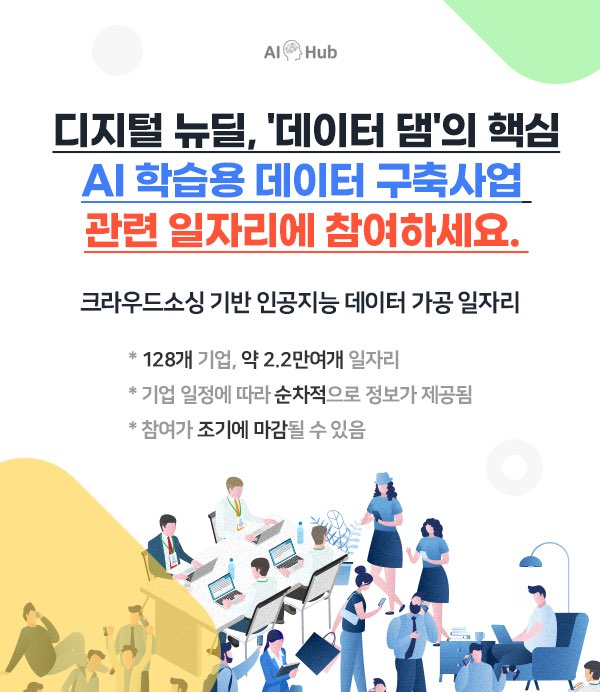
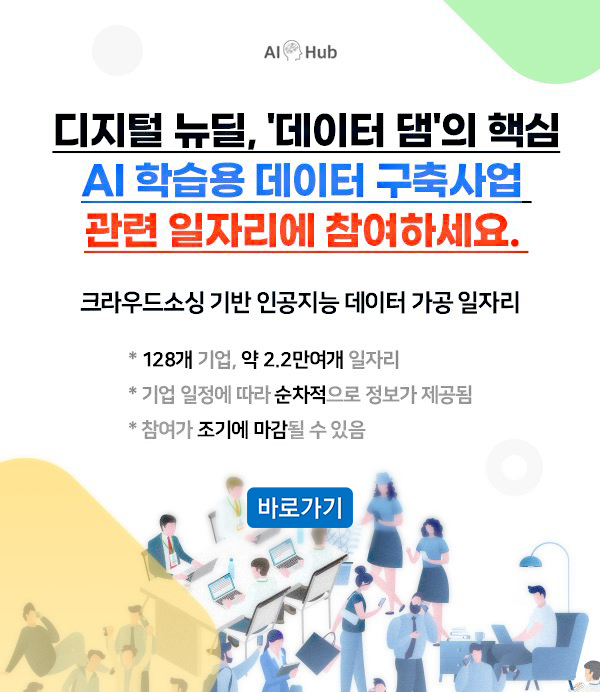
Complete : 파비콘(.ico) 추가, 메인 팝업 보완, 푸터 일부 링크 삭제

diff --git a/asset/css/style.css b/asset/css/style.css
@@ -63,7 +63,7 @@ a:hover {text-decoration: none; color:inherit}
 #content .tab li {float: left;height: 50px;width:50%;border-top: 1px solid #1a428a;border-right: 1px solid #dedede;border-bottom: 1px solid #b6b6b6;text-align: center;display: table;}
 #content .tab li a {display: table-cell;height: 50px;line-height: 1.1em;vertical-align: middle;word-break: keep-all;}
 #content .tab li a.active {background: #1a428a; color: #fff; font-weight: bold;}
-#content .area_tit {padding: 70px 0 50px; text-align: center;}
+/*#content .area_tit {padding: 70px 0 50px; text-align: center;}*/
 #content .area_tit .tit {
     font-size: 40px;
     font-weight: bold;
@@ -498,7 +498,7 @@ margin-top: 4px;
 
 /* 버튼 */
 [class*="btn_m"] {min-width: 120px;min-height: 40px;line-height:20px;display: inline-block;text-align: center;padding:10px 15px;}
-[class*="m_blue"] {background-color: #007dff;color:#fff;}
+[class*="m_blue"] {background-color: #007dff;color:#fff!important;}
 
 @media screen and (max-width: 1199px) {
     .area_thumbnail li {min-height: auto}
@@ -680,17 +680,70 @@ margin-top: 4px;
 /*}*/
 .modal .img_100 {width: 100%}
 
+
 .modal-body {padding: 0}
-.modal-content .btn_close {
-    z-index: 10;
-    width: 52px;
-    height: 52px;
-    position: absolute;
-    right: -52px;
-    top:0;
-    background: #000 url('../images/icon_x.png') no-repeat 50% 50%;
-    background-size: 21px;
+/*.modal-content .btn_close {*/
+/*    z-index: 10;*/
+/*    width: 52px;*/
+/*    height: 52px;*/
+/*    position: absolute;*/
+/*    right: -52px;*/
+/*    top:0;*/
+/*    background: #000 url('../images/icon_x.png') no-repeat 50% 50%;*/
+/*    background-size: 21px;*/
+/*}*/
+.modal .area_today {
+    position: relative;
+    background: #000;
+    color:#fff;
+    padding: 8px 15px;
 }
+.modal .area_today .btn_close {
+    position: absolute;
+    right: 15px;
+    top: 7px;
+    border: solid 1px #686868;
+    font-size: 14px;
+    letter-spacing: -0.8px;
+    color: #fff;
+    padding: 3px 7px;
+    background: #000;
+}
+.modal .area_today .checkbox {
+    display: inline-block;
+}
+.modal .area_today .checkbox input {
+    position: absolute;
+    left: -50000px;
+
+
+}
+.modal .area_today .checkbox label {
+    position: relative;
+    padding-left: 31px;
+    font-size: 14px;
+    letter-spacing: -0.8px;
+    color: #ffffff;
+    line-height: 1.6;
+    margin:0;
+}
+.modal .area_today .checkbox label:before {
+    content: "";
+    width: 22px;
+    height: 22px;
+    position: absolute;
+    left:0;
+    top:0;
+    background: url('../images/icon_checkbox.png') no-repeat;
+    background-size: 22px;
+    transition: all .2s ease;
+}
+.modal .area_today input:checked + label:before {
+    background: url('../images/icon_checkbox_checked.png') no-repeat;
+    background-size: 22px;
+}
+
+
 @media (min-width: 992px) {
     .modal-lg, .modal-xl {
         max-width: 600px;
@@ -724,7 +777,7 @@ margin-top: 4px;
 }
 
 @media screen and (max-width: 900px) {
-    #content .area_tit {padding: 50px 0 30px}
+    /*#content .area_tit {padding: 50px 0 30px}*/
     #nav {display: none;position: fixed;background: #fff;top: 0;left: 100%;width: 100%;height: 100%;visibility: hidden;transition: visibility .55s, height .55s, left .35s;overflow: hidden;z-index: 999;display: flex;flex-direction: column;justify-content: center;transform: none;padding-left: 80px;}
     #nav._open {visibility: visible;left:0;display: flex; z-index: 100000;}
     #nav .logo {display: block;position: absolute;top:14px;left: 16px;}

diff --git a/index.html b/index.html
@@ -11,7 +11,7 @@
     <link rel="stylesheet" type="text/css" href="./asset/css/YouTubePopUp.css">
     <link rel="stylesheet" type="text/css" href="./asset/css/bootstrap.min.css">
     <link rel="stylesheet" type="text/css" href="./asset/css/style.css">
-    <link rel="shortcut icon" type="image/x-icon" href="./asset/images/img_logo_new.png">
+    <link rel="shortcut icon" type="image/x-icon" href="/favicon.ico?1">
     <script src="./asset/js/jquery-2.2.4.min.js"></script>
     <script src="./asset/js/slick.min.js"></script>
     <script src="./asset/js/waypoints.min.js"></script>
@@ -267,9 +267,6 @@
                 <li><a href="https://www.msit.go.kr/web/msipContents/contents.do?mId=MTA3Mw==" target="_blank">이용안내</a></li>
                 <li><a href="https://www.msit.go.kr/web/msipContents/contents.do?mId=MTA3NA==" class="yellow" target="_blank">개인정보처리방침</a></li>
                 <li><a href="https://www.msit.go.kr/web/msipContents/contents.do?mId=MTA4NA==" target="_blank">저작권 정책</a></li>
-                <li><a href="https://www.msit.go.kr/web/msipContents/contents.do?mId=MTEyOA==" target="_blank">RSS 이용안내</a></li>
-                <li><a href="https://www.msit.go.kr/web/msipContents/contents.do?mId=MTA0MQ==" target="_blank">오시는 길</a></li>
-                <li><a href="https://lib.msit.go.kr/" target="_blank">과기정통부 도서관</a></li>
             </ul>
         </div>
         <div class="area_address">
@@ -283,14 +280,20 @@
     </div>
 </footer>
 
-<div class="modal fade" id="modal_center" tabindex="-1" role="dialog" aria-hidden="true">
+<div class="modal fade modal_aihub" id="modal_center" tabindex="-1" role="dialog" aria-hidden="true">
     <div class="modal-dialog modal-lg modal-dialog-centered" role="document">
         <div class="modal-content">
-            <button type="button" class="btn_close" data-dismiss="modal" aria-label="close"></button>
             <div class="modal-body">
                 <a href="http://aidatacs.aihub.or.kr/" target="_blank" style="display: block">
                     <img src="./asset/images/img_modal_aihub.jpg" class="img_100" alt="">
                 </a>
+                <div class="area_today">
+                    <div class="checkbox">
+                        <input type="checkbox" id="check2">
+                        <label for="check2">오늘 하루 열지않기</label>
+                    </div>
+                    <button type="button" class="btn_close" data-dismiss="modal" aria-label="close">닫기</button>
+                </div>
             </div>
         </div>
     </div>

diff --git a/introduce.html b/introduce.html
@@ -6,7 +6,7 @@
     <meta http-equiv="X-UA-Compatible" content="ie=edge">
     <title>사업소개 - 디지털 뉴딜</title>
     <link rel="stylesheet" type="text/css" href="./asset/css/style.css">
-    <link rel="shortcut icon" type="image/x-icon" href="./asset/images/img_logo_new.png">
+    <link rel="shortcut icon" type="image/x-icon" href="/favicon.ico?1">
     <script src="./asset/js/jquery-2.2.4.min.js"></script>
     <script src="./asset/js/popper.min.js"></script>
     <script src="./asset/js/bootstrap.min.js"></script>
@@ -361,9 +361,6 @@
                 <li><a href="https://www.msit.go.kr/web/msipContents/contents.do?mId=MTA3Mw==" target="_blank">이용안내</a></li>
                 <li><a href="https://www.msit.go.kr/web/msipContents/contents.do?mId=MTA3NA==" class="yellow" target="_blank">개인정보처리방침</a></li>
                 <li><a href="https://www.msit.go.kr/web/msipContents/contents.do?mId=MTA4NA==" target="_blank">저작권 정책</a></li>
-                <li><a href="https://www.msit.go.kr/web/msipContents/contents.do?mId=MTEyOA==" target="_blank">RSS 이용안내</a></li>
-                <li><a href="https://www.msit.go.kr/web/msipContents/contents.do?mId=MTA0MQ==" target="_blank">오시는 길</a></li>
-                <li><a href="https://lib.msit.go.kr/" target="_blank">과기정통부 도서관</a></li>
             </ul>
         </div>
         <div class="area_address">

diff --git a/news_detail.html b/news_detail.html
@@ -6,7 +6,7 @@
     <meta http-equiv="X-UA-Compatible" content="ie=edge">
     <title>알림마당 상세 - 디지털 뉴딜</title>
     <link rel="stylesheet" type="text/css" href="./asset/css/style.css">
-    <link rel="shortcut icon" type="image/x-icon" href="./asset/images/img_logo_new.png">
+    <link rel="shortcut icon" type="image/x-icon" href="/favicon.ico?1">
     <script src="./asset/js/jquery-2.2.4.min.js"></script>
     <script src="./asset/js/ui.js"></script>
 </head>
@@ -107,9 +107,6 @@
                 <li><a href="https://www.msit.go.kr/web/msipContents/contents.do?mId=MTA3Mw==" target="_blank">이용안내</a></li>
                 <li><a href="https://www.msit.go.kr/web/msipContents/contents.do?mId=MTA3NA==" class="yellow" target="_blank">개인정보처리방침</a></li>
                 <li><a href="https://www.msit.go.kr/web/msipContents/contents.do?mId=MTA4NA==" target="_blank">저작권 정책</a></li>
-                <li><a href="https://www.msit.go.kr/web/msipContents/contents.do?mId=MTEyOA==" target="_blank">RSS 이용안내</a></li>
-                <li><a href="https://www.msit.go.kr/web/msipContents/contents.do?mId=MTA0MQ==" target="_blank">오시는 길</a></li>
-                <li><a href="https://lib.msit.go.kr/" target="_blank">과기정통부 도서관</a></li>
             </ul>
         </div>
         <div class="area_address">

diff --git a/promotion_detail.html b/promotion_detail.html
@@ -6,7 +6,7 @@
     <meta http-equiv="X-UA-Compatible" content="ie=edge">
     <title>홍보자료 상세 - 디지털 뉴딜</title>
     <link rel="stylesheet" type="text/css" href="./asset/css/style.css">
-    <link rel="shortcut icon" type="image/x-icon" href="./asset/images/img_logo_new.png">
+    <link rel="shortcut icon" type="image/x-icon" href="/favicon.ico?1">
     <script src="./asset/js/jquery-2.2.4.min.js"></script>
     <script src="./asset/js/ui.js"></script>
 </head>
@@ -104,9 +104,6 @@
                 <li><a href="https://www.msit.go.kr/web/msipContents/contents.do?mId=MTA3Mw==" target="_blank">이용안내</a></li>
                 <li><a href="https://www.msit.go.kr/web/msipContents/contents.do?mId=MTA3NA==" class="yellow" target="_blank">개인정보처리방침</a></li>
                 <li><a href="https://www.msit.go.kr/web/msipContents/contents.do?mId=MTA4NA==" target="_blank">저작권 정책</a></li>
-                <li><a href="https://www.msit.go.kr/web/msipContents/contents.do?mId=MTEyOA==" target="_blank">RSS 이용안내</a></li>
-                <li><a href="https://www.msit.go.kr/web/msipContents/contents.do?mId=MTA0MQ==" target="_blank">오시는 길</a></li>
-                <li><a href="https://lib.msit.go.kr/" target="_blank">과기정통부 도서관</a></li>
             </ul>
         </div>
         <div class="area_address">

diff --git a/news.html b/news.html
@@ -6,7 +6,7 @@
     <meta http-equiv="X-UA-Compatible" content="ie=edge">
     <title>알림마당 - 디지털 뉴딜</title>
     <link rel="stylesheet" type="text/css" href="./asset/css/style.css">
-    <link rel="shortcut icon" type="image/x-icon" href="./asset/images/img_logo_new.png">
+    <link rel="shortcut icon" type="image/x-icon" href="/favicon.ico?1">
     <script src="./asset/js/jquery-2.2.4.min.js"></script>
     <script src="./asset/js/ui.js"></script>
 </head>
@@ -108,9 +108,6 @@
                 <li><a href="https://www.msit.go.kr/web/msipContents/contents.do?mId=MTA3Mw==" target="_blank">이용안내</a></li>
                 <li><a href="https://www.msit.go.kr/web/msipContents/contents.do?mId=MTA3NA==" class="yellow" target="_blank">개인정보처리방침</a></li>
                 <li><a href="https://www.msit.go.kr/web/msipContents/contents.do?mId=MTA4NA==" target="_blank">저작권 정책</a></li>
-                <li><a href="https://www.msit.go.kr/web/msipContents/contents.do?mId=MTEyOA==" target="_blank">RSS 이용안내</a></li>
-                <li><a href="https://www.msit.go.kr/web/msipContents/contents.do?mId=MTA0MQ==" target="_blank">오시는 길</a></li>
-                <li><a href="https://lib.msit.go.kr/" target="_blank">과기정통부 도서관</a></li>
             </ul>
         </div>
         <div class="area_address">

diff --git a/promotion.html b/promotion.html
@@ -6,7 +6,7 @@
     <meta http-equiv="X-UA-Compatible" content="ie=edge">
     <title>홍보자료 - 디지털 뉴딜</title>
     <link rel="stylesheet" type="text/css" href="./asset/css/style.css">
-    <link rel="shortcut icon" type="image/x-icon" href="./asset/images/img_logo_new.png">
+    <link rel="shortcut icon" type="image/x-icon" href="/favicon.ico?1">
     <script src="./asset/js/jquery-2.2.4.min.js"></script>
     <script src="./asset/js/ui.js"></script>
 </head>
@@ -187,9 +187,6 @@
                 <li><a href="https://www.msit.go.kr/web/msipContents/contents.do?mId=MTA3Mw==" target="_blank">이용안내</a></li>
                 <li><a href="https://www.msit.go.kr/web/msipContents/contents.do?mId=MTA3NA==" class="yellow" target="_blank">개인정보처리방침</a></li>
                 <li><a href="https://www.msit.go.kr/web/msipContents/contents.do?mId=MTA4NA==" target="_blank">저작권 정책</a></li>
-                <li><a href="https://www.msit.go.kr/web/msipContents/contents.do?mId=MTEyOA==" target="_blank">RSS 이용안내</a></li>
-                <li><a href="https://www.msit.go.kr/web/msipContents/contents.do?mId=MTA0MQ==" target="_blank">오시는 길</a></li>
-                <li><a href="https://lib.msit.go.kr/" target="_blank">과기정통부 도서관</a></li>
             </ul>
         </div>
         <div class="area_address">

diff --git a/notfound.html b/notfound.html
@@ -6,7 +6,7 @@
     <meta http-equiv="X-UA-Compatible" content="ie=edge">
     <title>페이지를 찾을 수 없습니다. - 디지털 뉴딜</title>
     <link rel="stylesheet" type="text/css" href="./asset/css/style.css">
-    <link rel="shortcut icon" type="image/x-icon" href="./asset/images/img_logo_new.png">
+    <link rel="shortcut icon" type="image/x-icon" href="/favicon.ico?1">
     <script src="./asset/js/jquery-2.2.4.min.js"></script>
     <script src="./asset/js/ui.js"></script>
 </head>
